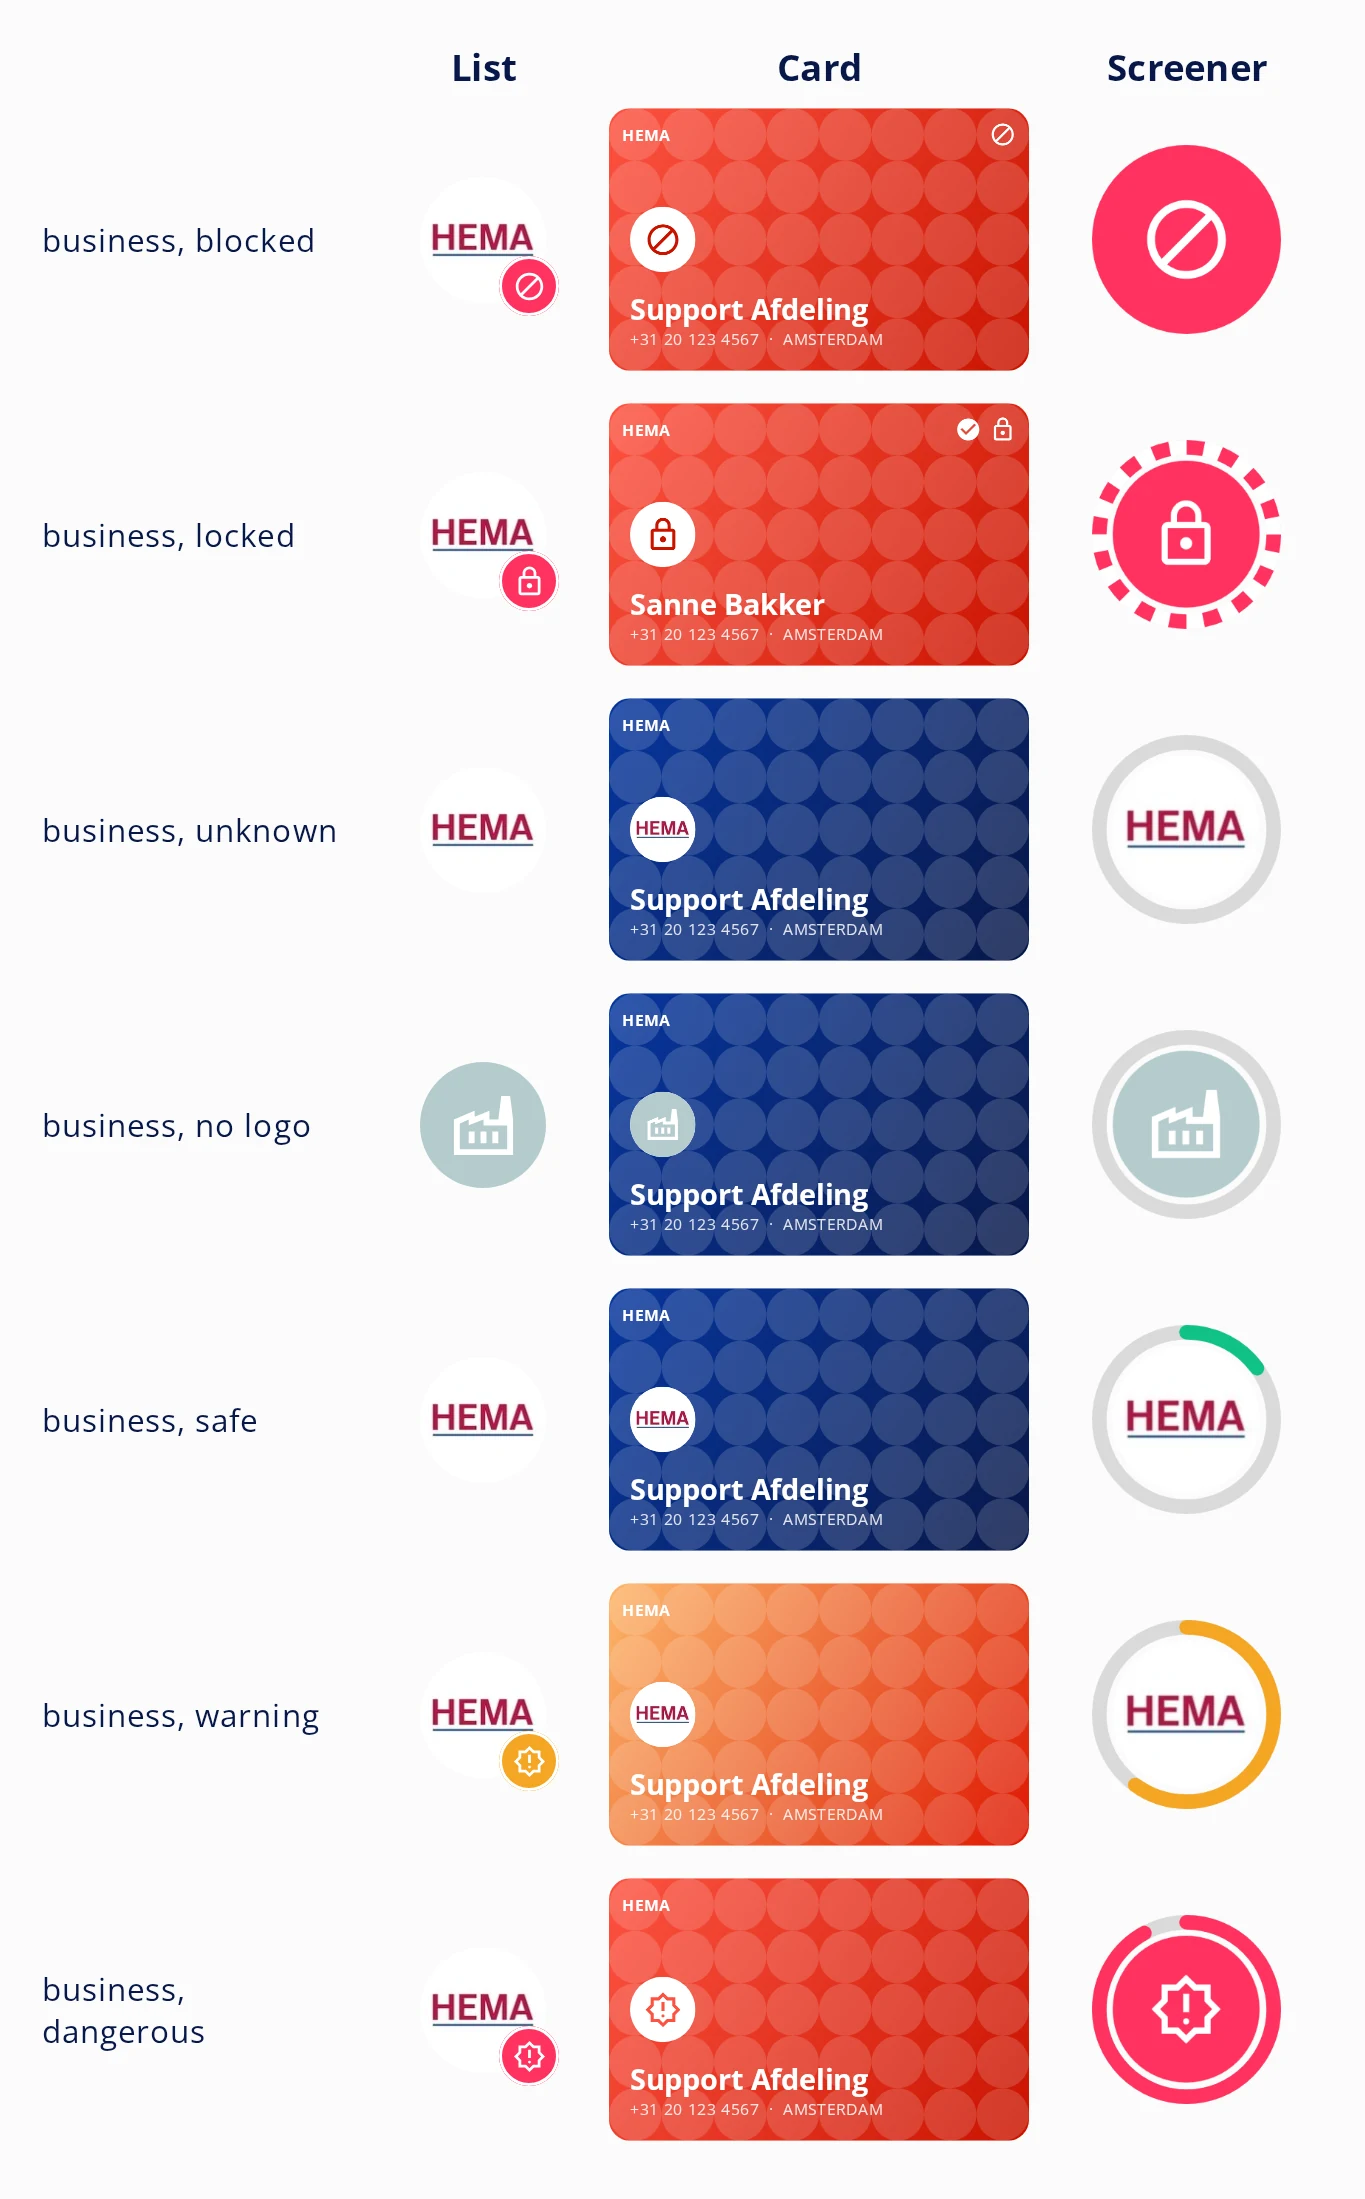
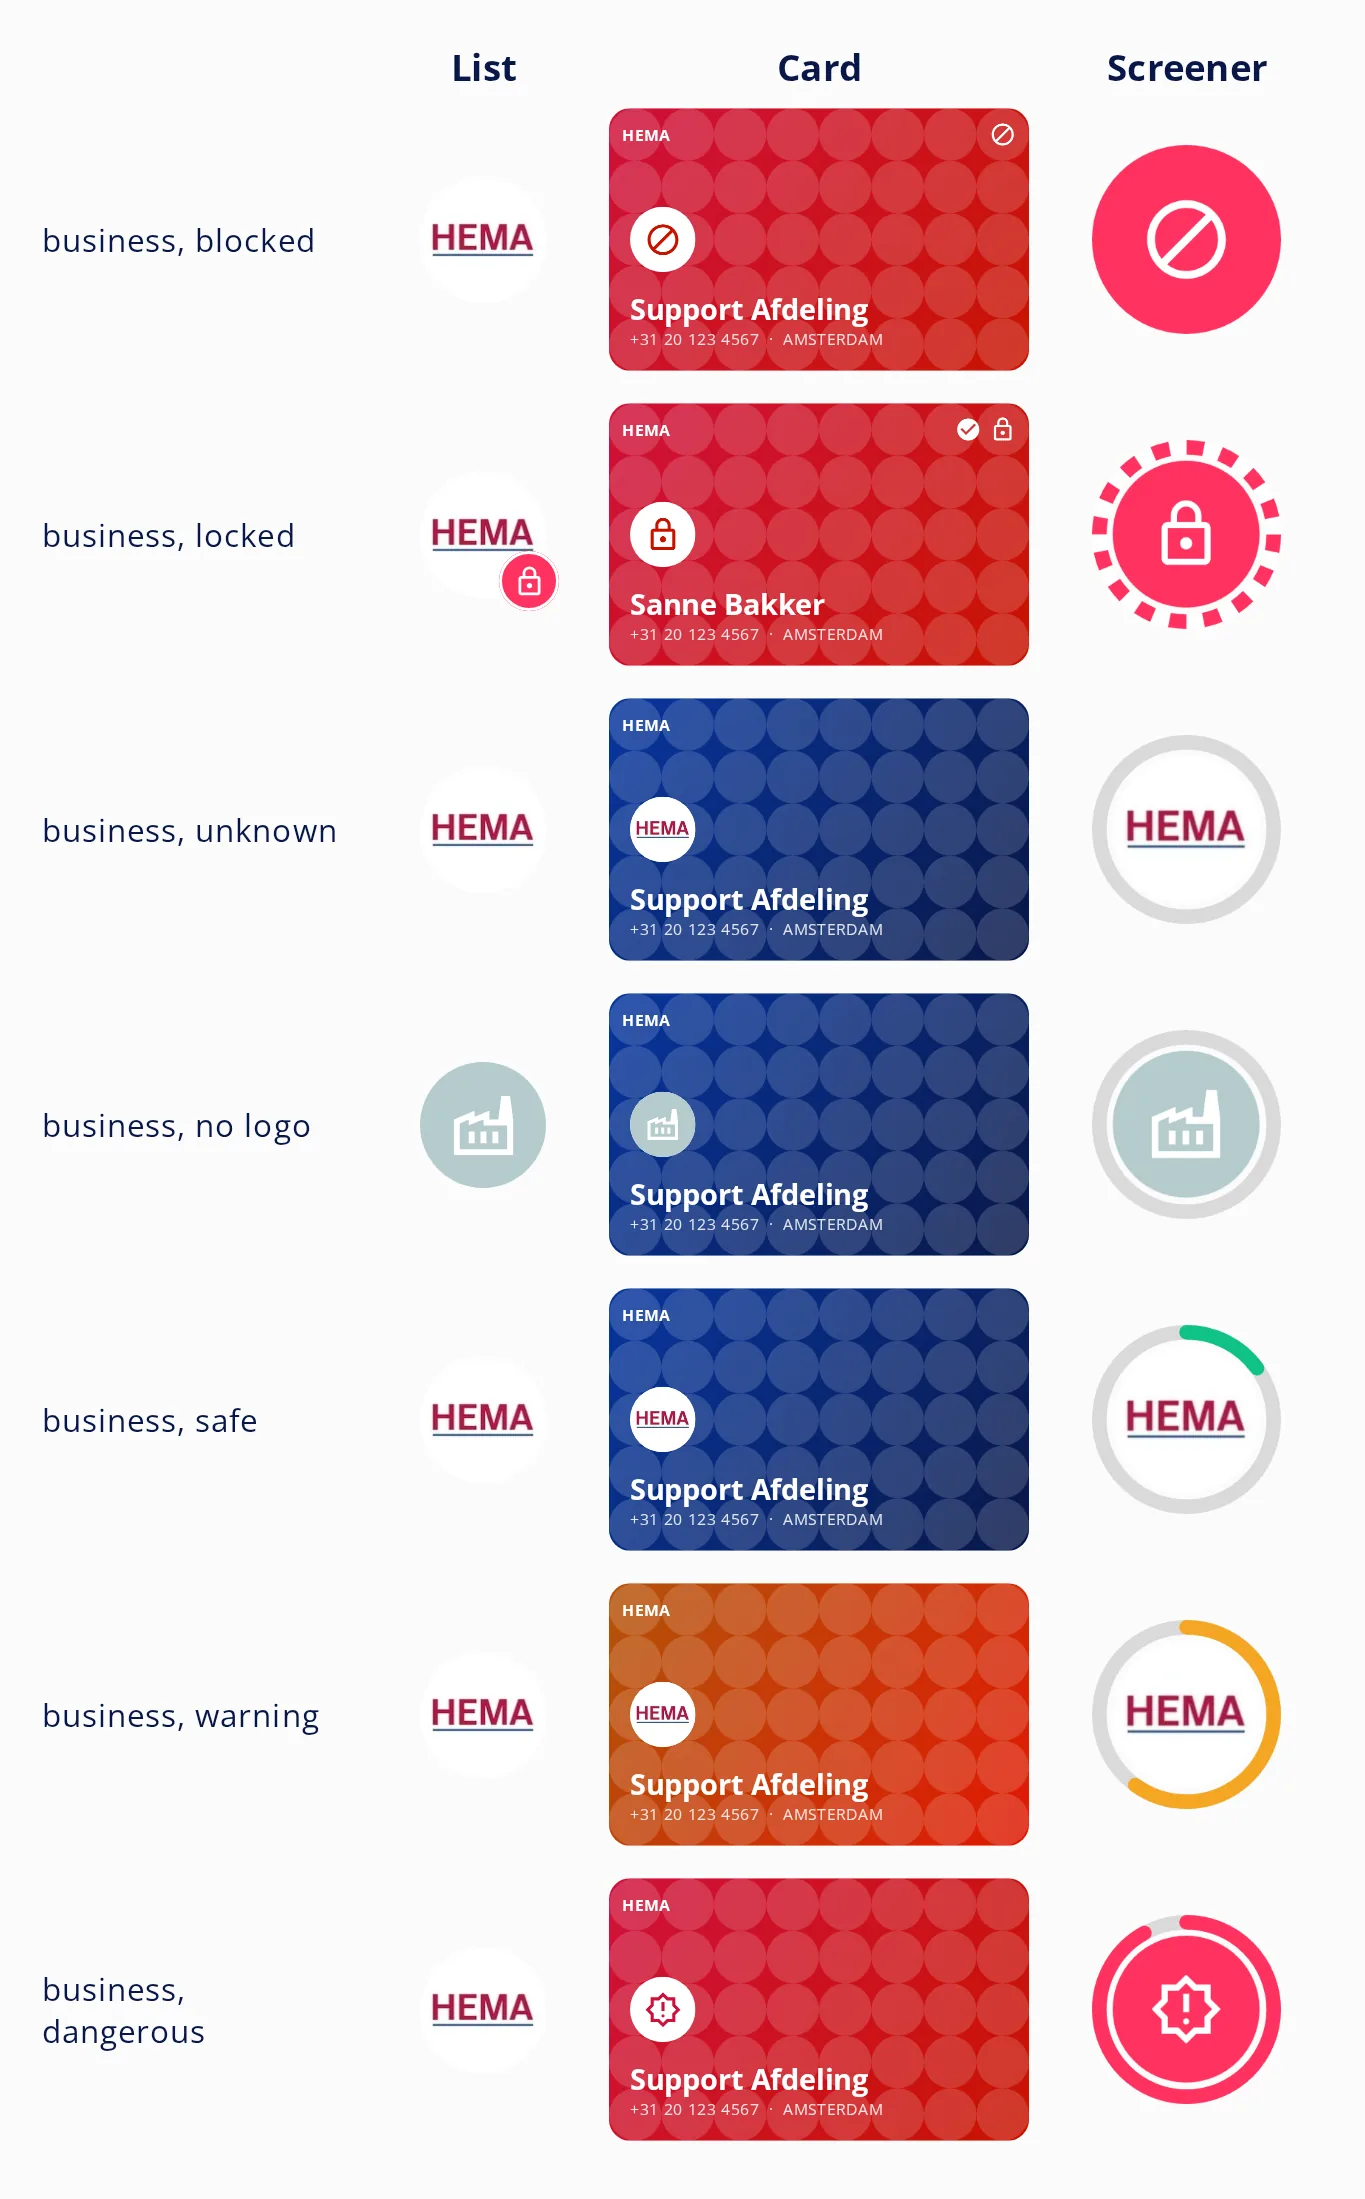
Lists: matrix re-rendered with member-only badges, Confirmed gets check, the header pins
- The avatar matrix is re-rendered from Android develop (8fa3a8cf0). The
  List column no longer shows verdict badges: only a member's lock, dark
  lock or verified seal. The old renders (12 Oct) predated the rule.
- Confirmed: verified → check, so the rosette stays the member's seal.
- The page's list section header panel now says what the README says:
  Recents pins it (transparent), Contacts scrolls; Android pins both with
  surface at 90% only while a row passes under it.
- The Recents example sits under a "Today" header.

Changed region(s): [[0.3692, 0.7112, 0.7385, 0.9895], [0.3692, 0.0309, 0.7077, 0.3092], [0.3692, 0.7731, 0.4, 0.8349]]

diff --git a/index.html b/index.html
@@ -361,6 +361,7 @@
   .recents-mock__second { display: flex; align-items: center; gap: 4px; font-family: 'Open Sans', sans-serif; font-size: 12px; color: var(--c-grey-ink); white-space: nowrap; min-width: 0; }
   .recents-mock__second .badge { margin-left: 4px; flex: 0 0 auto; }
   .recents-mock__region { overflow: hidden; text-overflow: ellipsis; }
+  .recents-mock .list-header { padding: 8px 0 4px; }
   .recents-mock__call { width: 24px; height: 24px; color: var(--c-green-ink); flex: 0 0 auto; padding: 12px; }
 
   /* ── Calmido Caller Card ───────────────────────────────────────
@@ -1639,7 +1640,7 @@
         <span class="badge badge--compact badge--alert"><span class="ico-mask" style="--ico:url('icons/attention.svg')" aria-hidden="true"></span>Suspicious</span>
         <span class="badge badge--compact badge--stop"><span class="ico-mask" style="--ico:url('icons/danger.svg')" aria-hidden="true"></span>Dangerous</span>
         <span class="badge badge--compact badge--verified"><span class="ico-mask" style="--ico:url('icons/shield_check.svg')" aria-hidden="true"></span>Safe</span>
-        <span class="badge badge--compact badge--verified"><span class="ico-mask" style="--ico:url('icons/verified.svg')" aria-hidden="true"></span>Confirmed</span>
+        <span class="badge badge--compact badge--verified"><span class="ico-mask" style="--ico:url('icons/check.svg')" aria-hidden="true"></span>Confirmed</span>
       </div>
       <small class="tok">Compact: 20 tall · padding 0 × 8 · gap 4 · icon 12 · word 14 semibold. Blocked: the Dangerous fill and ink.</small>
       <small class="tok" style="display:block;">Full size (Reports): the <a href="#threat-bar" style="color: var(--c-blue);">verdict chip</a>, 28 tall.</small>
@@ -1657,8 +1658,9 @@
         <li><strong>Question row</strong> (Report this call / Confirm the name): at most one per number, on that number's <strong>newest</strong> row, under a hairline divider with 8 above and below.</li>
       </ul>
       <h4 style="margin: 24px 0 8px;">Example</h4>
-      <p class="t-body-m" style="margin: 0 0 12px; color: var(--c-grey-ink);">At 375&nbsp;px, iOS. Top: a name, and a chip on the second row. Bottom: an unknown number with no chip, so the region follows the time. A green direction icon means verified; iOS shows no lock after the name.</p>
+      <p class="t-body-m" style="margin: 0 0 12px; color: var(--c-grey-ink);">At 375&nbsp;px, iOS, under the day's section header. Top: a name, and a chip on the second row. Bottom: an unknown number with no chip, so the region follows the time. A green direction icon means verified; iOS shows no lock after the name.</p>
       <div class="recents-mock">
+        <div class="list-header">Today</div>
         <div class="recents-mock__row">
           <span class="avatar avatar--face" style="width:40px;height:40px;font-size:14px;">AH</span>
           <div class="recents-mock__text">
@@ -1699,7 +1701,9 @@
         <li>One style for every list section: letters (Contacts) and words (Recents: Today, Yesterday, Older).</li>
         <li>Plain text, no circle or fill: Open Sans 14 / 20 semibold in <code>font-muted</code> (#5F6869 light · #B8B8BA dark), transparent background, sentence case. Padding 8 top · 4 bottom · 16 sides.</li>
         <li>Hidden while a search query is typed.</li>
-        <li>Alignment and position are up to each app.</li>
+        <li><strong>Recents pins it</strong> at the top while its day scrolls, still transparent: the rows pass under it, as in an iOS plain list. <strong>Contacts</strong> lets it scroll with the rows.</li>
+        <li><strong>Android:</strong> bold, as on iOS; Recents and Contacts both pin it, with the page background (<code>surface</code>) at 90% behind it only while a row passes under it, transparent at rest.</li>
+        <li>Alignment is up to each app.</li>
       </ul>
     </div>
   </section>

diff --git a/README.md b/README.md
@@ -253,7 +253,7 @@ Recents, Reports, Contacts and the dialpad result. Same on Android and iOS (`cal
 - **One row for Recents and Reports:** the 40 avatar · the name (semibold) over the date and time (small, secondary) · the chip, icon + word. Only the chip's place and the right side differ: Recents puts one compact chip on the second row and the call button on the right; Reports puts the full-size chip(s) on the right, with no call button.
 
 - **Avatar badge: a member's only, never a verdict.** Locked (red lock) › Shielded (dark lock) › verified member seal (Bright Green). Blocked, Dangerous or Warning: no badge, not even the seal; the chip says it.
-- **Recents, second row:** call-direction icon · date and time · then **one compact chip** (Blocked › Suspicious / Dangerous › Safe › Confirmed) or else the region. Never both. Safe is the user's own Safe report (`shield_check`), Confirmed a business card they confirmed (`verified`). Expanded, when the third row shows the number, the region follows it: `+31 20 123 4567 • Netherlands`.
+- **Recents, second row:** call-direction icon · date and time · then **one compact chip** (Blocked › Suspicious / Dangerous › Safe › Confirmed) or else the region. Never both. Safe is the user's own Safe report (`shield_check`), Confirmed a business card they confirmed (`check`). Expanded, when the third row shows the number, the region follows it: `+31 20 123 4567 • Netherlands`.
 - **Recents, third row:** shows the number + region, `+31 20 123 4567 • Netherlands`. Only expanded, and only for a contact, a business or a member: an unknown caller's first row already is the number, so it has no third row. Never the call's outcome (Verified, Timed out, Declined, Not verified…). The outcome is shown by the call-direction icon: green when verified, the danger ink otherwise, the block icon when declined. Screen readers hear the outcome on the direction icon ("Incoming, verified", "Incoming, timed out").
 - **Recents, the lock after the name:** Android only, for a verified secure call, because its Recents lists every call and the lock marks the secure ones. iOS lists only secure calls and shows no lock; the green direction icon says the call was verified.
 - **Spacing, every list** (Recents, Reports, Contacts; Android's, both apps): **10 between rows**, no divider line between them. In a row: the 40 avatar, a 15 gap, the text lines stacked with no extra gap between them, and on the right the call button's 48 touch target (Recents, Contacts) or the chips (Reports); the 48 sets the row's minimum height. Recents' question row sits under a hairline divider with 8 above and below it.
